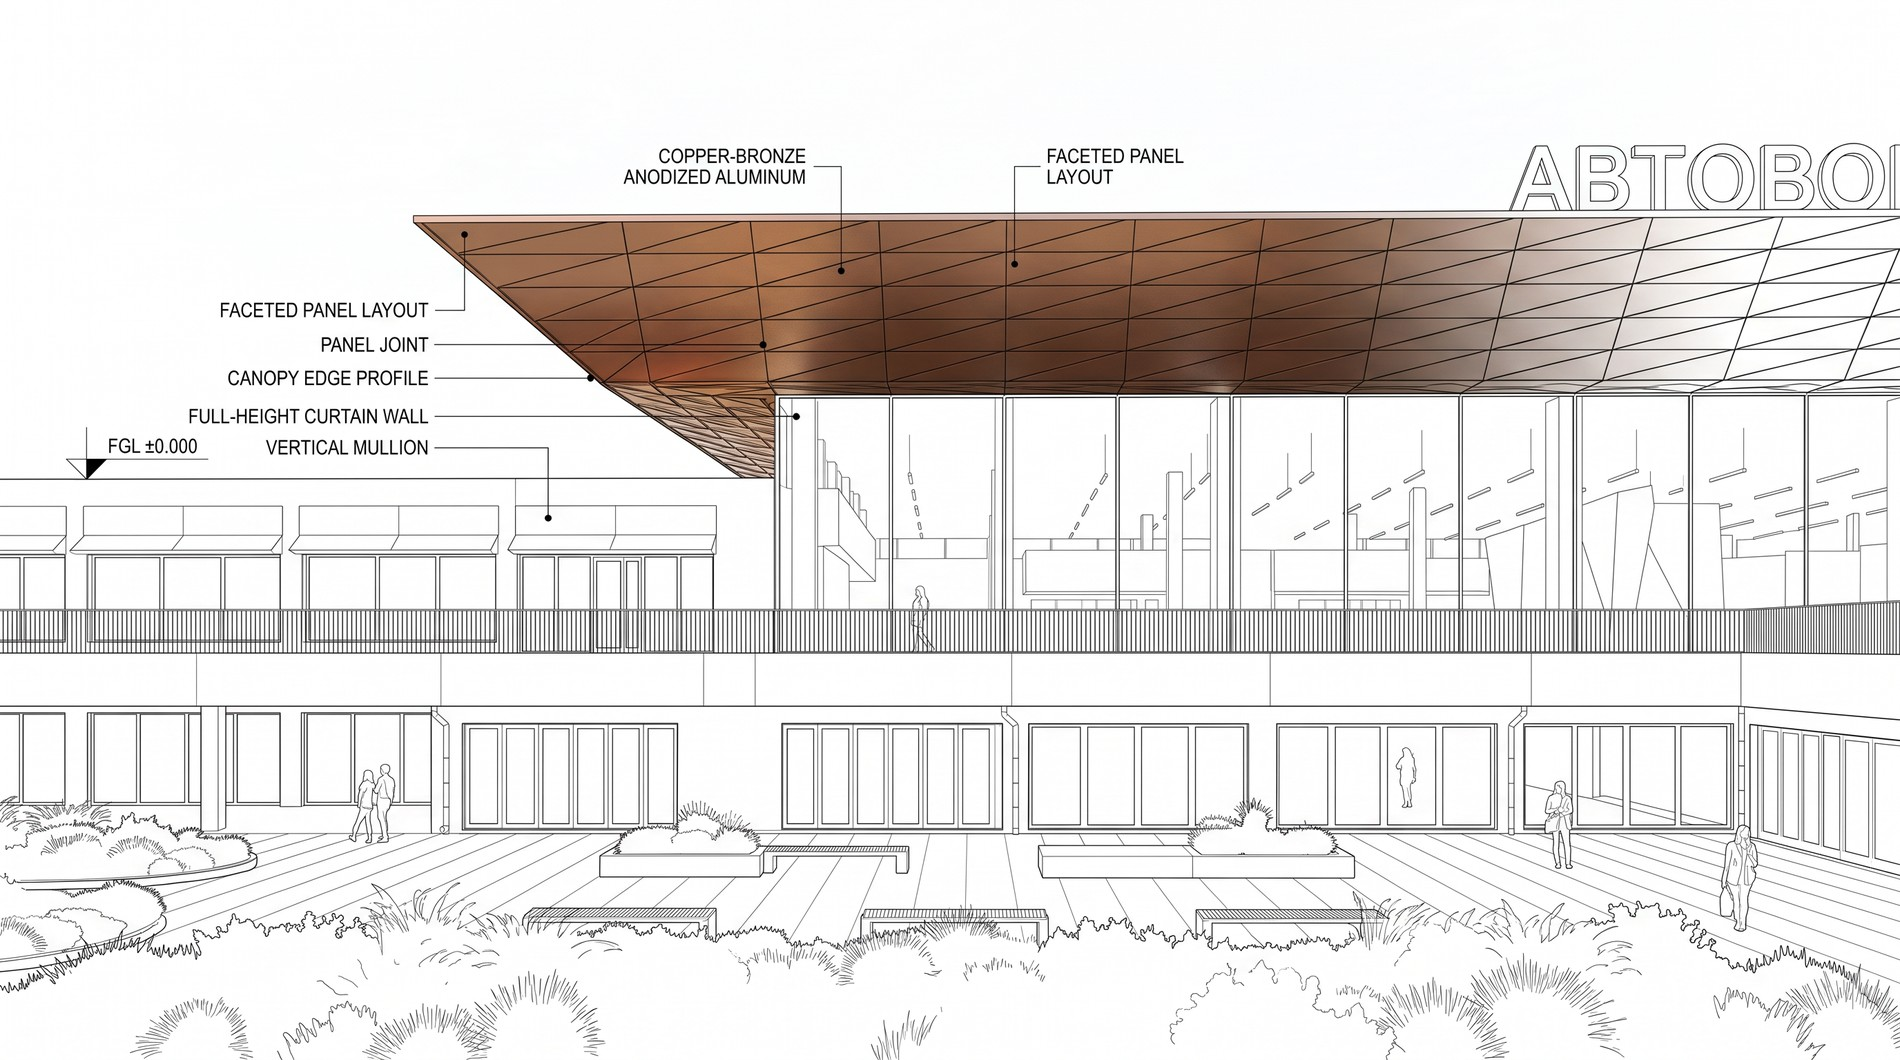
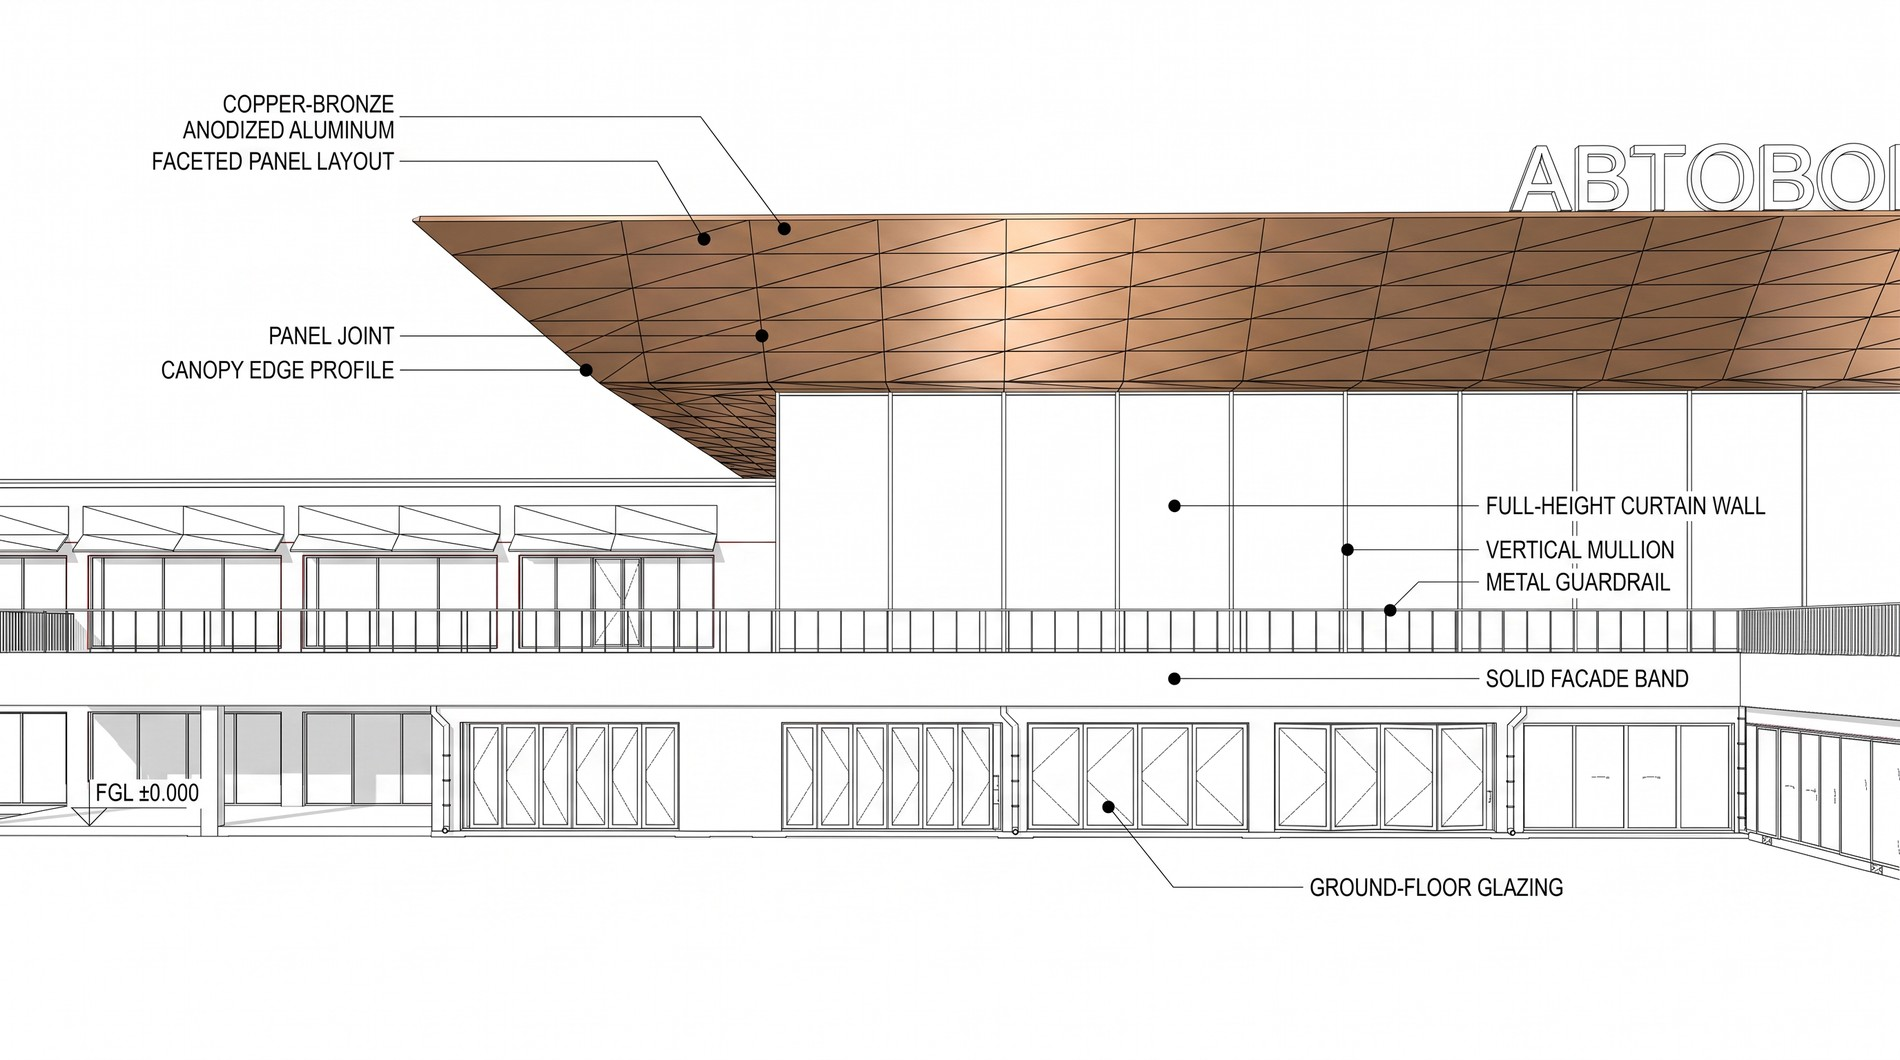
Replace facade elevation with updated version (more annotations)

diff --git a/projects/copper-facade-bishkek.html b/projects/copper-facade-bishkek.html
@@ -58,7 +58,7 @@
     <div class="media-frame has-photo media-frame--wide media-frame--blueprint">
       <div class="blueprint">
         <div class="blueprint__frame">
-          <img src="../assets/img/copper-facade-elevation.jpg" alt="Annotated elevation calling out the copper-bronze panel system, joints, and canopy edge profile" />
+          <img src="../assets/img/copper-facade-elevation.jpg" alt="Annotated elevation calling out the copper-bronze panel system, curtain wall, mullions, guardrail, and ground-floor glazing" />
           <div class="blueprint__stamp">
             <div class="blueprint__stamp-label">Project</div>
             <div class="blueprint__stamp-value">Copper Fa&ccedil;ade</div>
